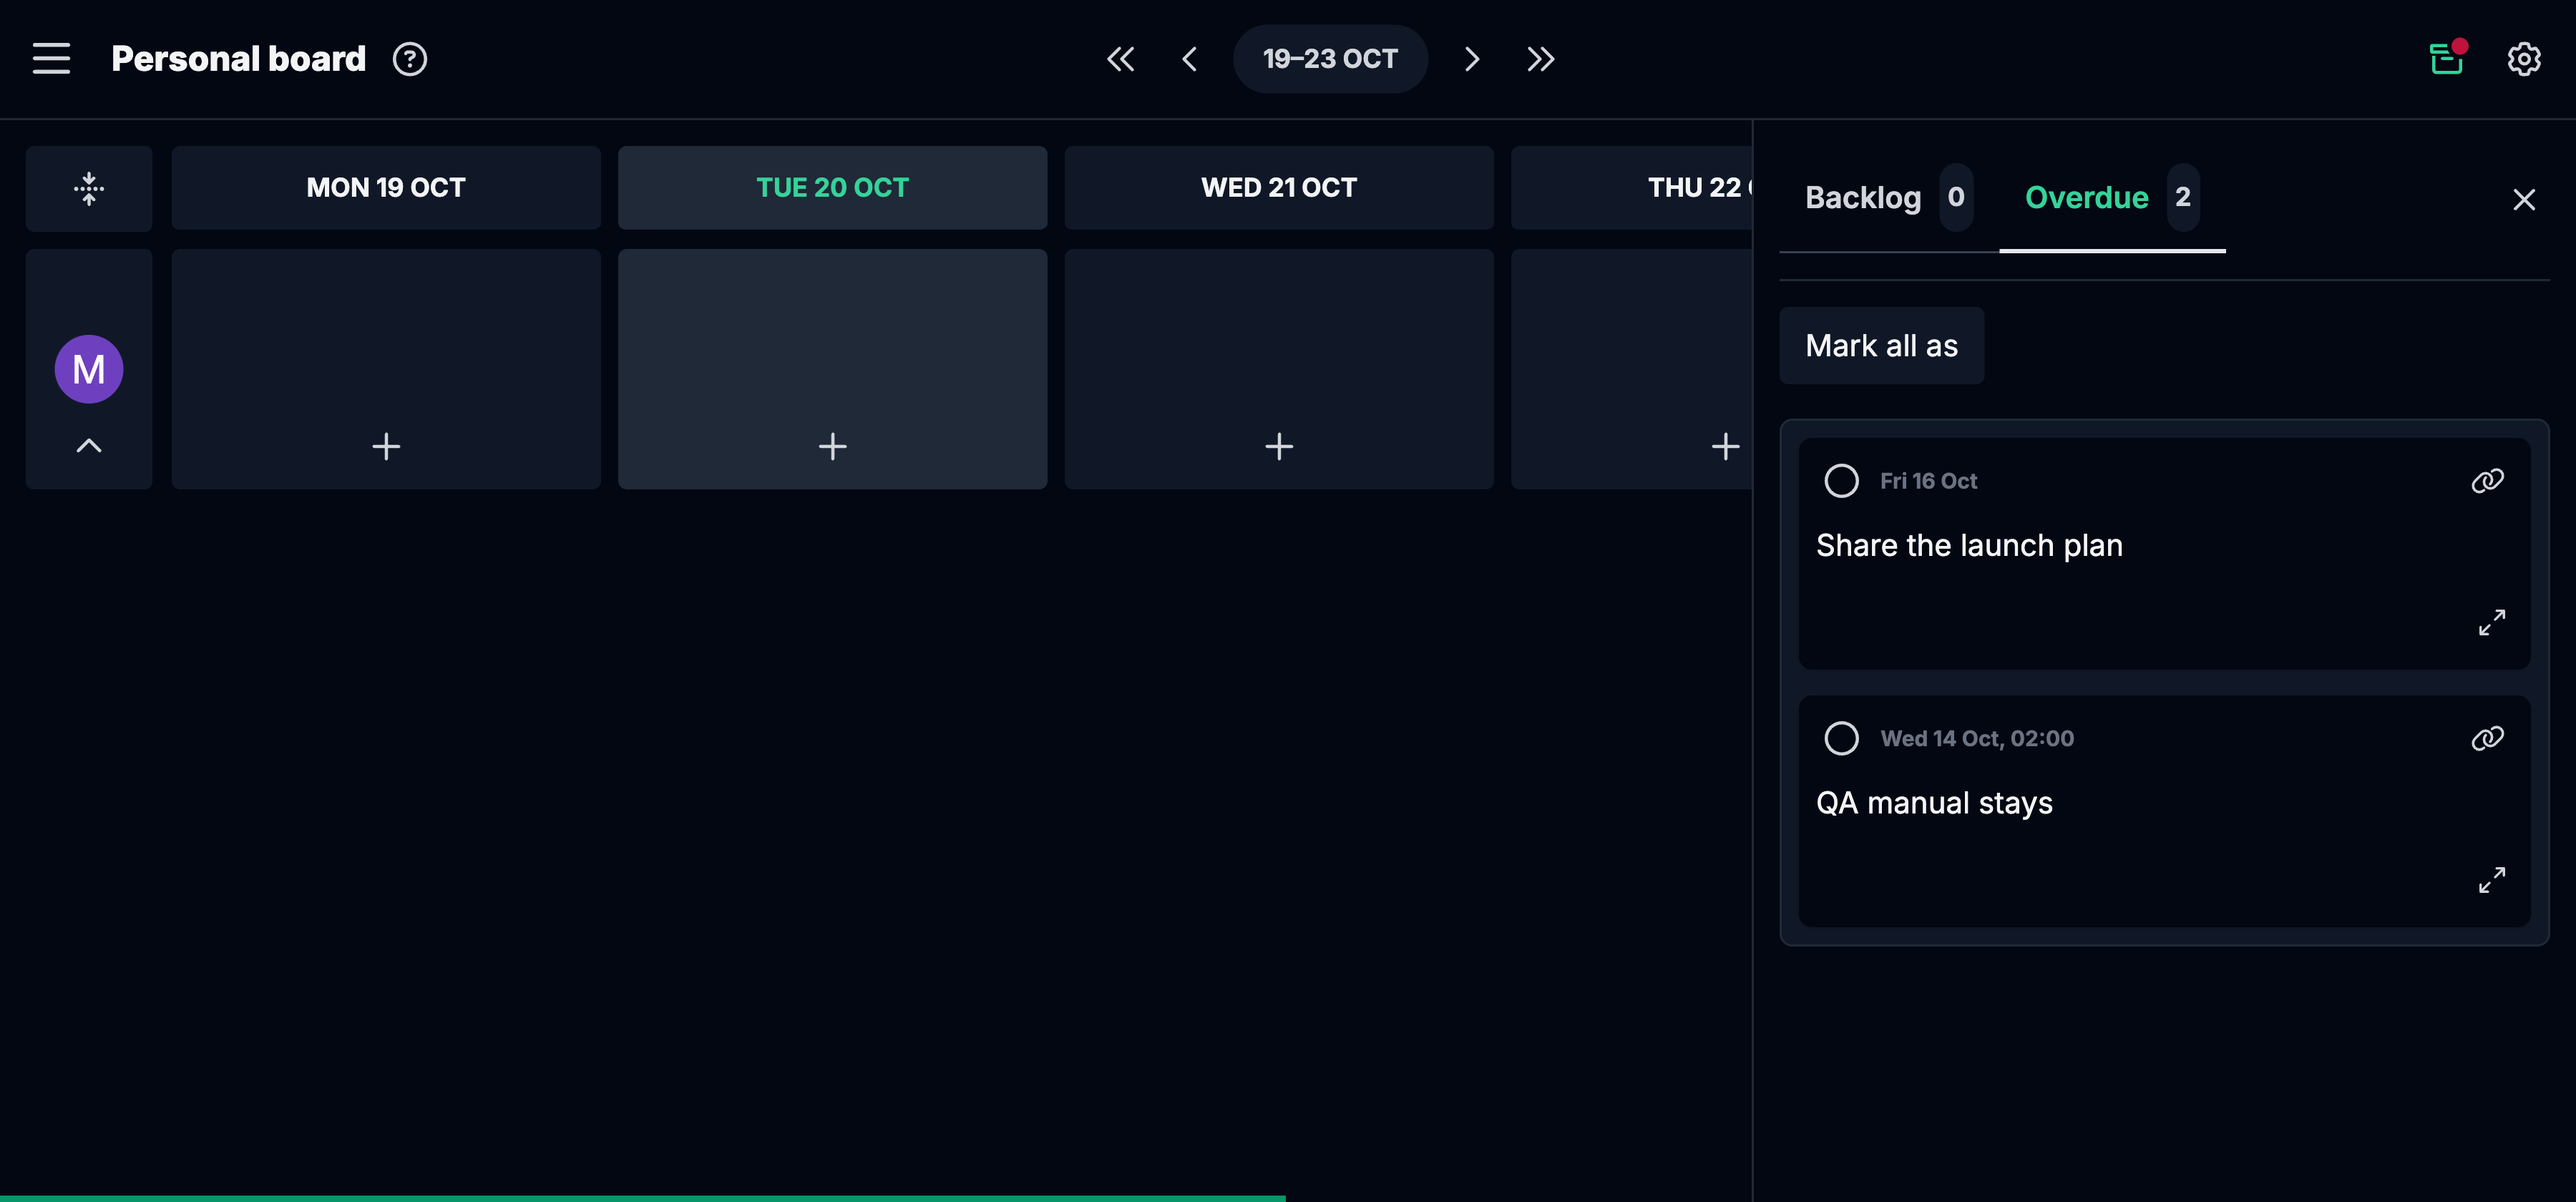
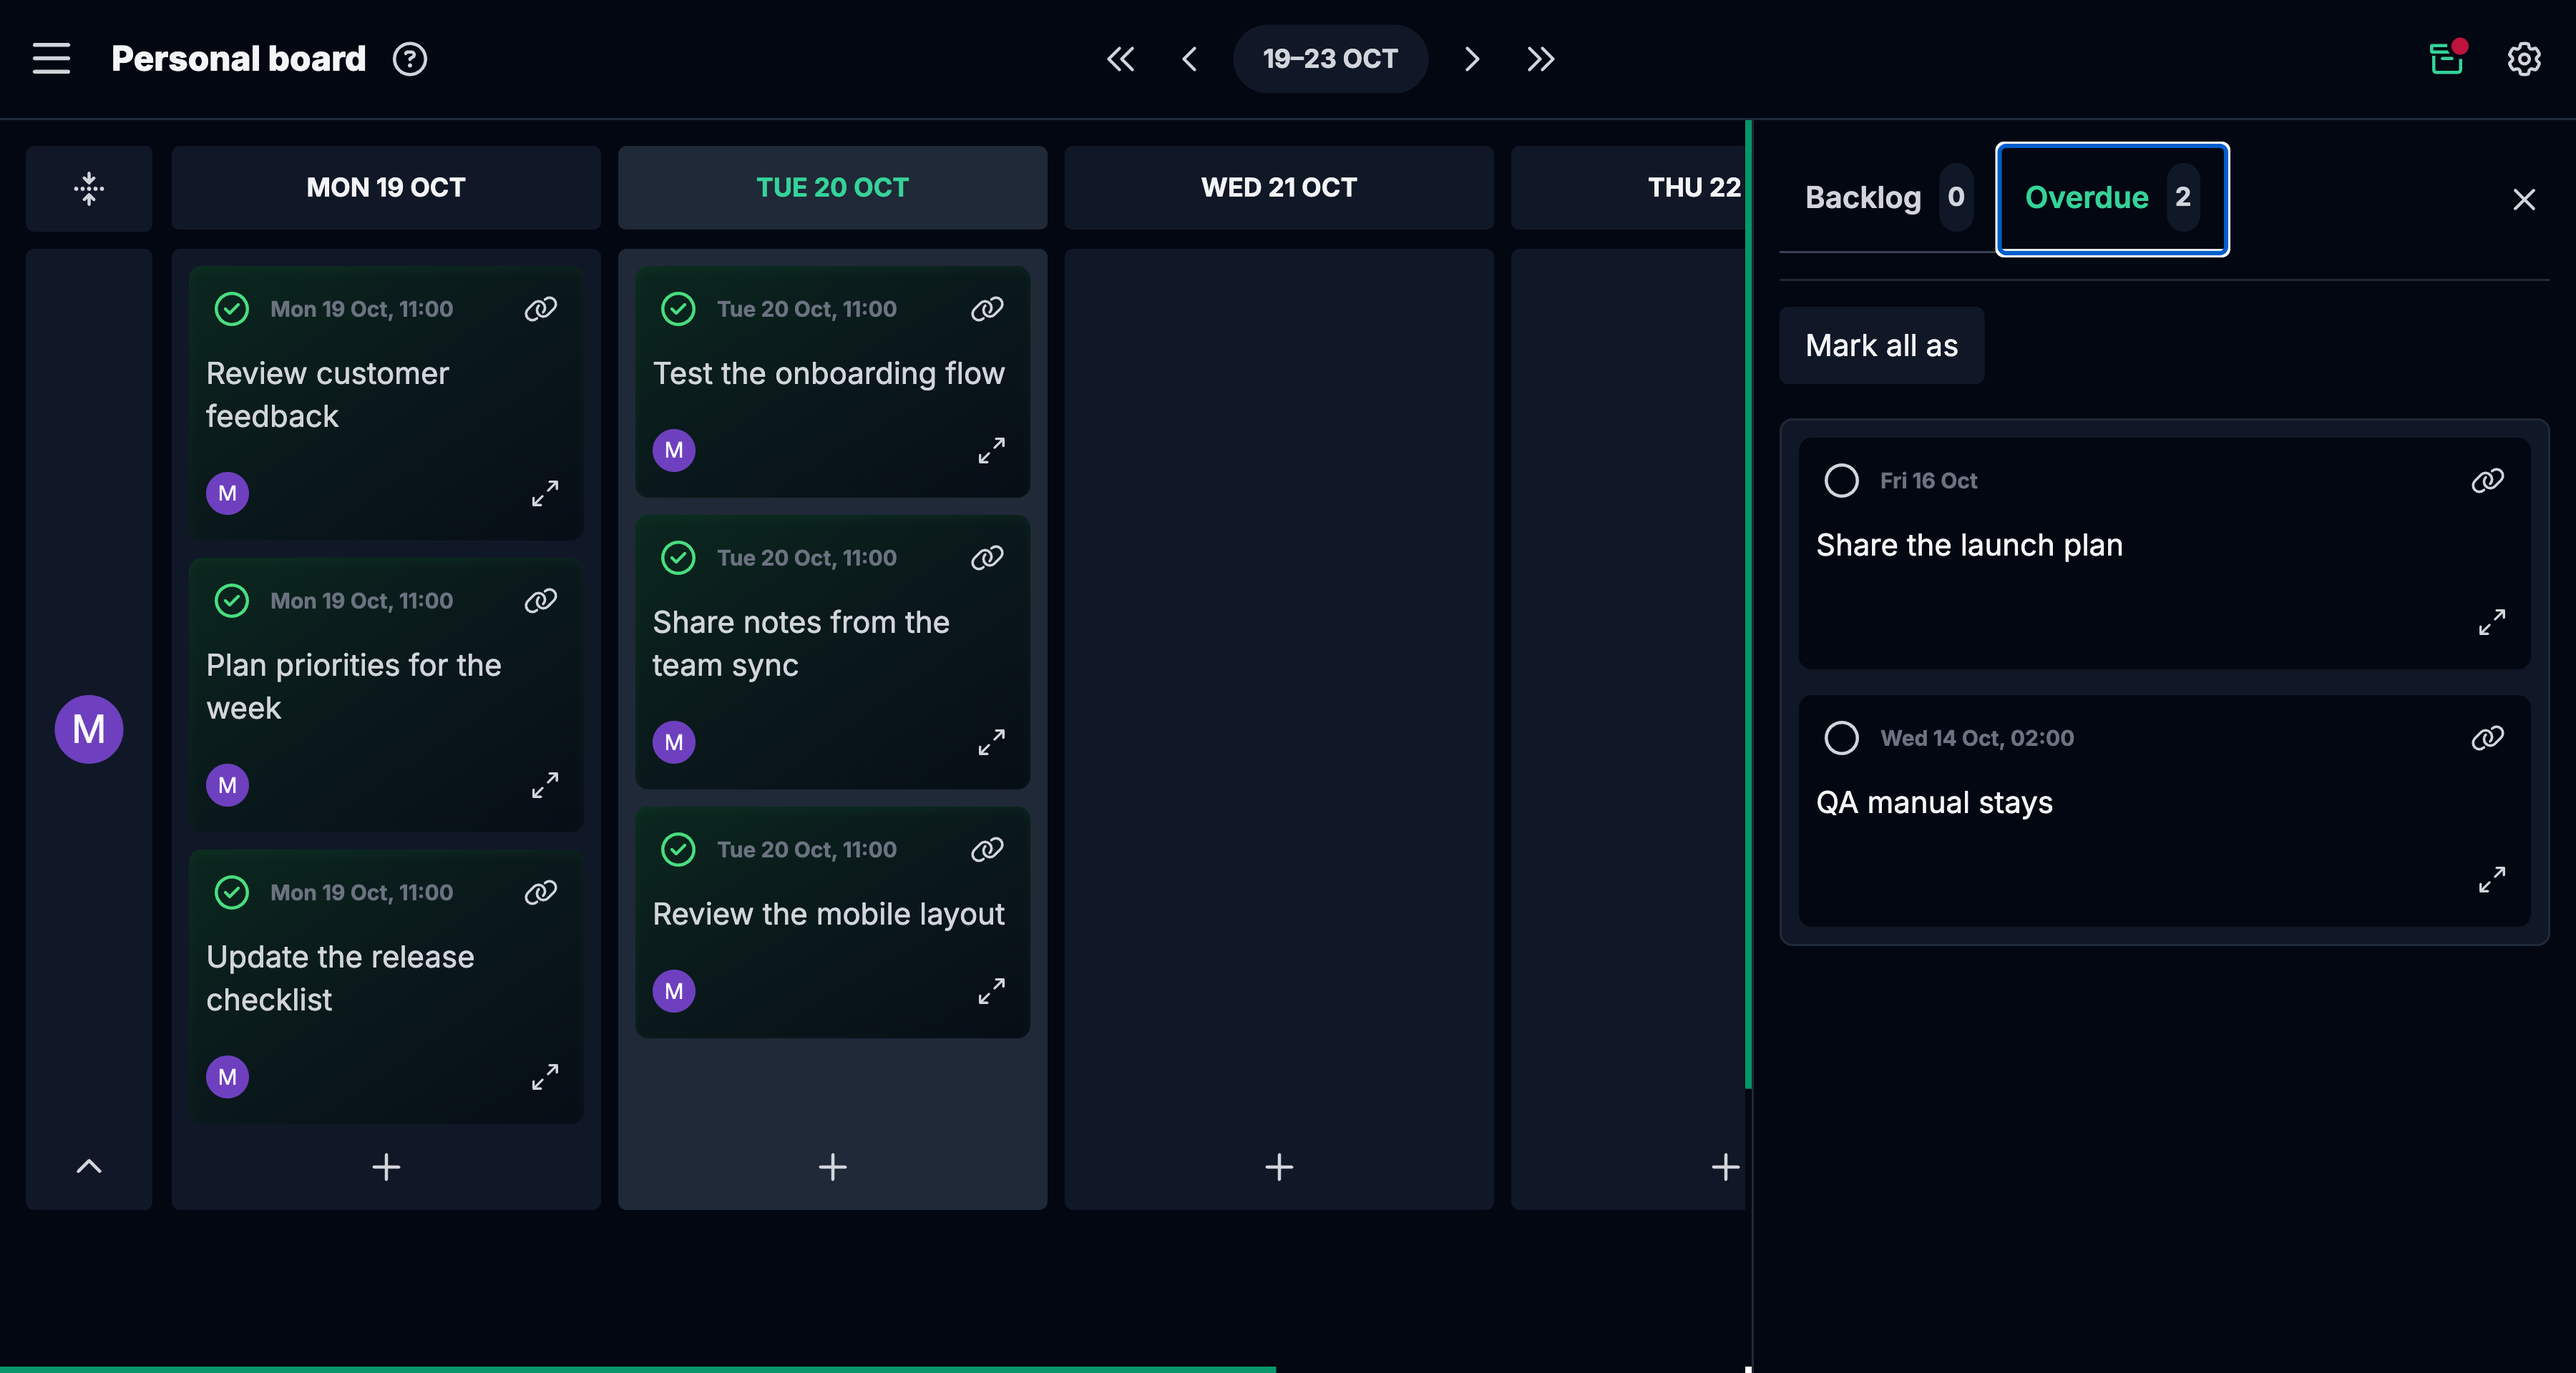
content: show desktop overdue and populated demo boards

diff --git a/.agents/skills/dailyboard-updates/SKILL.md b/.agents/skills/dailyboard-updates/SKILL.md
@@ -22,7 +22,7 @@ Use merged Dailyboard product PRs as the primary record; page through all result
 - Lead with user outcomes, explain where a feature is and how to use it.
 - Include a short agenda of one-sentence bullets; link highlights to their sections. A small change may be completely described in its bullet.
 - Highlights have useful detail and real screenshots showing the released interaction on fictional/demo data. Do not substitute proposed designs or generated screenshots for the application. Record capture environment and limitations. Avoid forcing a screenshot for an invisible backend/process improvement; illustrate a relevant user flow when useful.
-- Capture screenshots without the automation cursor or overlays; inspect the actual saved assets. Include desktop and mobile views for features available on both. For now, omit GIFs: Kuba rejected their visual quality on October 20, 2026. Mobile board screenshots should show a shared board with multiple fictional participants and realistic commitments, rather than only a details panel.
+- Capture screenshots without the automation cursor or overlays; inspect the actual saved assets. Choose views that best explain the feature; the first edition’s Overdue highlight uses desktop only, per Kuba’s October 20 feedback. For now, omit GIFs: Kuba rejected their visual quality on October 20, 2026. Mobile board screenshots should show a shared board with multiple fictional participants and realistic commitments, including plenty of completed work alongside ongoing tasks, rather than only a details panel. Populate desktop boards similarly.
 - Export screenshots directly from Chrome DevTools at DPR 3 (at least 2), retaining the intended CSS viewport. Use the original downloaded PNG, not the automation tool’s resized/compressed observation image. Verify actual pixel dimensions against displayed CSS size, inspect text at Retina density, and remove only the automation overlay before export (never alter product UI). Repaint after removing the overlay and inspect the saved file; hiding or moving the pointer alone may leave it in the export. Constrain image display widths; never upscale a 1× screenshot.
 - Performance improvements always deserve consideration. Describe the concrete work and intended experience without unsupported speed claims or percentages.
 - Reliability work matters even when individual PRs are technical. Explain the collective effort to reduce recurring errors and detect/respond to new problems; do not claim zero bugs or instant guaranteed fixes. Include a concise fixes section, grouping low-level items as other bug fixes and improvements where appropriate.

diff --git a/docs/updates/2026-10-19-review.md b/docs/updates/2026-10-19-review.md
@@ -61,3 +61,7 @@ Kuba requested explicit browser wording and a gentle native-app teaser. Updated 
 ## Retina media revision — October 20
 
 Kuba flagged visibly soft screenshots (message 1792509040.941579). Re-exported all four screenshots through Chrome DevTools at DPR 3, retaining real application UI and fictional local data. Original downloaded PNGs replace the tool observation captures: board 1170×2280 (390×760 CSS), Inbox 1170×1797 (390×599 CSS), desktop 3600×1680 (1200×560 CSS), recovery 1320×1077 (440×359 CSS). Removed the automation-only overlay via Elements before export and repainted; inspected final files for cursor absence and legibility. No image upscaling, AI reconstruction or product UI retouching. Recovery display is now capped at 440 CSS px instead of stretching to the article width. Updated the recurring skill with pixel-density checks.
+
+## Realistic boards and desktop-only Overdue — October 20
+
+Kuba requested desktop-only Overdue and more completed work in the board illustrations (message 1792510448.624879; inspected attachment F0CAJMBA21K). Removed the mobile Inbox image and unused asset. Added 17 completed sample commitments across the existing fictional local shared board and personal board, without production writes or invitations. Recaptured the mobile board at 1170×2280 and desktop Overdue at 3600×1920 (1200×640 CSS) through DevTools DPR 3; inspected originals for cursor absence. Mobile shows three completed commitments alongside ongoing/planned work; desktop shows six completed commitments behind Overdue. Updated the recurring skill.
